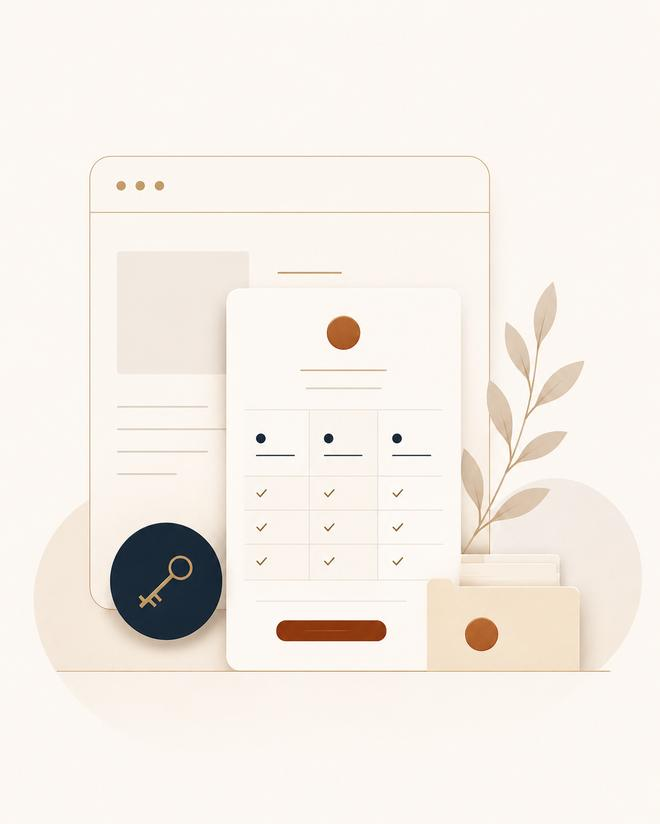
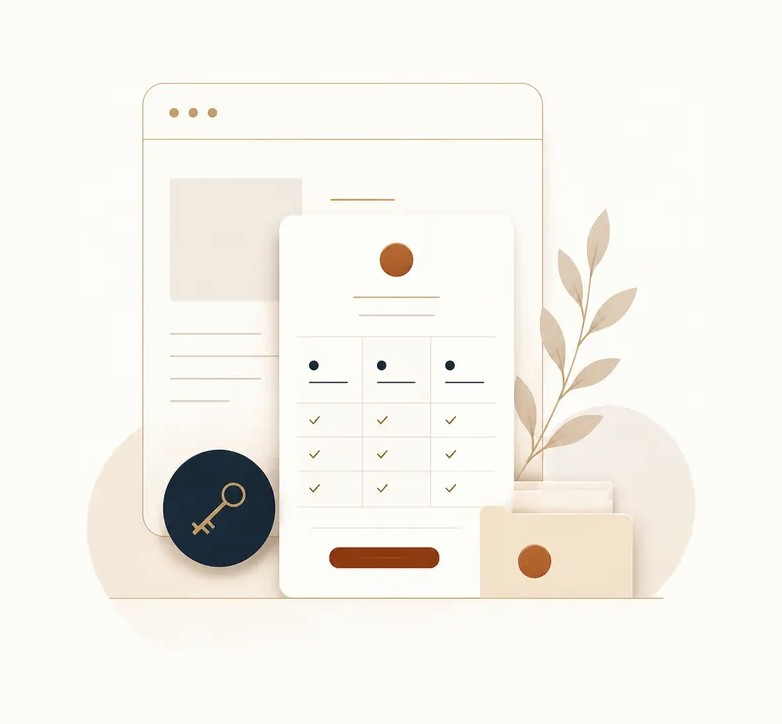
Align the FAQ illustrations and dissolve their edges into the page
Both illustrations read as faint boxes floating at inconsistent heights. Three
separate causes, measured rather than guessed.

Alignment: the heading sat inside the left column, so centring the artwork
centred it against heading plus questions together. The two groups have
different heading-to-question ratios, so group one's art floated 54px above its
first question while group two's sat 26px below it. The heading is now a grid
item spanning both columns, which puts the questions and the artwork in a row of
their own. The 34px under the heading moves from a margin to the grid row-gap,
because a margin counts inside the row box and centring was splitting it,
leaving the art 17px high. Both groups now centre exactly, symmetric to the
pixel.

Framing: both images were squeezed into one 660x824 frame despite opposite
natural shapes, subjects at aspect 1.08 and 0.52, so each carried a wide band of
dead background on two sides. Neither subject was actually centred either; the
working illustration sat 40px left of centre. Both are recropped to their own
subject and recentred with a uniform 10% margin. Sizing is now capped by height
instead of set by width, so the tall portrait cannot tower over the short
landscape one: each lands at about 0.72 of the height of the questions beside it.

Seamlessness: the flat illustration backgrounds were five values off --paper,
close enough to look deliberate and too far to hide a rectangle edge. Each
[…]

diff --git a/studio.css b/studio.css
@@ -895,18 +895,70 @@ p,li,dd,figcaption{text-wrap:pretty}
 
 /* FAQ group with its illustration alongside (2026-08-11). The accordion caps
    at 820px, so on a 1240px page there was 400px of dead space to its right.
-   The artwork lives there. Its own background is within about four values of
-   --paper, so it needs no frame to sit on the page cleanly. */
-.faq-split{display:grid;grid-template-columns:minmax(0,1fr) 300px;gap:54px;align-items:center}
+   The artwork lives there.
+
+   Revised 2026-08-12. Two problems were visible on the live page:
+
+   1. The heading sat inside the left column, so align-items:center centred the
+      artwork against heading + questions together. The two groups have
+      different heading-to-question ratios, so group one's art floated 54px
+      ABOVE its first question and group two's sat 26px BELOW it: the same
+      component landing at two different offsets. The heading is now a grid
+      item spanning both columns, which drops the questions and the artwork
+      into a row of their own and centres the art against the questions alone.
+      Both groups now read identically. The 34px below the heading has to move
+      from .faq's margin to the grid's row-gap: a margin counts inside the row
+      box, so centring split the difference and left the art 17px high.
+
+   2. Both illustrations were squeezed into one 660x824 frame despite having
+      opposite natural shapes (subjects at aspect 1.08 and 0.52), so each had
+      a wide band of dead background on two sides, and neither subject was
+      actually centred in its frame; the working illustration sat 40px left.
+      Both are now cropped to their own subject and re-centred with a uniform
+      10% margin, and each is sized to its own aspect rather than a shared box.
+      Sizing is capped by height rather than set by width, so the tall
+      portrait cannot tower over the short landscape one: each ends up about
+      0.72 of the height of the question stack beside it. */
+.faq-split{display:grid;grid-template-columns:minmax(0,1fr) 300px;column-gap:54px;row-gap:34px;align-items:center}
+.faq-split > .sec-head{grid-column:1/-1}
 .faq-split + .faq-split{margin-top:58px}
-@media(max-width:1000px){.faq-split{grid-template-columns:1fr;gap:26px}}
-.faq-split .faq{max-width:none}
+@media(max-width:1000px){.faq-split{grid-template-columns:1fr;column-gap:0}}
+.faq-split .faq{max-width:none;margin-top:0}
 .faq-art{margin:0}
-.faq-art img{display:block;width:100%;height:auto;border-radius:14px}
+.faq-art img{display:block;max-width:100%;max-height:400px;width:auto;height:auto;margin:0 auto}
+/* The illustration backgrounds were flat but landed five values off --paper,
+   which is close enough to look intentional and too far to hide a rectangle
+   edge: on the live page both read as faint boxes. Two things fix it. The
+   images now have their own flat field retinted onto --paper exactly (weighted
+   by how close each pixel already was to that field, so the artwork is
+   untouched), and the outer 9% is dissolved here to kill the edge itself.
+   Measured after both: every edge pixel matches the page exactly.
+
+   NOTE: the retint ties these two files to a --paper band. If either
+   illustration is ever moved onto .alt (cream) or .navy, the flat field will
+   show as a pale box again and the images need rebuilding against that colour.
+
+   Two gradients intersected rather than one radial, so the fade stays on the
+   borders and the middle of the picture keeps full strength. The images carry
+   exactly 10% of clear margin for the 9% fade to eat, so it never reaches the
+   artwork. */
+.faq-art img{
+  --edge:9%;
+  -webkit-mask-image:
+    linear-gradient(to bottom,transparent 0,#000 var(--edge),#000 calc(100% - var(--edge)),transparent 100%),
+    linear-gradient(to right, transparent 0,#000 var(--edge),#000 calc(100% - var(--edge)),transparent 100%);
+  -webkit-mask-composite:source-in;
+  mask-image:
+    linear-gradient(to bottom,transparent 0,#000 var(--edge),#000 calc(100% - var(--edge)),transparent 100%),
+    linear-gradient(to right, transparent 0,#000 var(--edge),#000 calc(100% - var(--edge)),transparent 100%);
+  mask-composite:intersect;
+}
 @media(max-width:1000px){
   /* stacked, the portrait illustration would add ~380px of scrolling to a page
-     that is already long, so it caps and centres instead */
-  .faq-art{max-width:240px;margin:0 auto}
+     that is already long, so it caps and centres instead. The row-gap above
+     supplies the space, so the figure needs no margin of its own. */
+  .faq-art{margin:0 auto}
+  .faq-art img{max-height:300px}
 }
 @media (prefers-reduced-motion: reduce){.faq summary::after{transition:none}}
 

diff --git a/faq.html b/faq.html
@@ -28,7 +28,7 @@
 <link rel="preconnect" href="https://fonts.googleapis.com">
 <link rel="preconnect" href="https://fonts.gstatic.com" crossorigin>
 <link href="https://fonts.googleapis.com/css2?family=Playfair+Display:ital,wght@0,500;0,600;0,700;1,500;1,600&family=Plus+Jakarta+Sans:wght@400;500;600;700&family=Caveat:wght@600&family=IBM+Plex+Mono:wght@500;600&display=swap" rel="stylesheet">
-<link rel="stylesheet" href="studio.css?v=106"/>
+<link rel="stylesheet" href="studio.css?v=108"/>
 <script async src="https://www.googletagmanager.com/gtag/js?id=G-X2Q4TFJQM4"></script>
 <script>
   window.dataLayer=window.dataLayer||[];
@@ -214,7 +214,6 @@
   <section class="block">
     <div class="wrap">
       <div class="faq-split">
-        <div>
         <div class="sec-head">
           <span class="eyebrow">Pricing</span>
           <h2>Cost, plans, and what you own.</h2>
@@ -252,17 +251,15 @@
             </div>
           </details>
         </div>
-        </div>
         <figure class="faq-art">
           <picture>
-            <source srcset="img/faq-pricing.webp?v=1" type="image/webp"/>
-            <img src="img/faq-pricing.jpg?v=1" alt="A website plan, a checklist of what is included, and a key, drawn in the studio's colours" width="660" height="824" loading="lazy" decoding="async"/>
+            <source srcset="img/faq-pricing.webp?v=3" type="image/webp"/>
+            <img src="img/faq-pricing.jpg?v=3" alt="A website plan, a checklist of what is included, and a key, drawn in the studio's colours" width="782" height="724" loading="lazy" decoding="async"/>
           </picture>
         </figure>
       </div>
 
       <div class="faq-split">
-        <div>
         <div class="sec-head">
           <span class="eyebrow">Working together</span>
           <h2>Timelines, fit, and parting ways.</h2>
@@ -318,11 +315,10 @@
             </div>
           </details>
         </div>
-        </div>
         <figure class="faq-art">
           <picture>
-            <source srcset="img/faq-working.webp?v=1" type="image/webp"/>
-            <img src="img/faq-working.jpg?v=1" alt="A calendar, a clock, a conversation, a puzzle fitting together, and a handshake, drawn in the studio's colours" width="660" height="824" loading="lazy" decoding="async"/>
+            <source srcset="img/faq-working.webp?v=3" type="image/webp"/>
+            <img src="img/faq-working.jpg?v=3" alt="A calendar, a clock, a conversation, a puzzle fitting together, and a handshake, drawn in the studio's colours" width="490" height="946" loading="lazy" decoding="async"/>
           </picture>
         </figure>
       </div>

diff --git a/404.html b/404.html
@@ -28,7 +28,7 @@
 <link rel="preconnect" href="https://fonts.googleapis.com">
 <link rel="preconnect" href="https://fonts.gstatic.com" crossorigin>
 <link href="https://fonts.googleapis.com/css2?family=Playfair+Display:ital,wght@0,500;0,600;0,700;1,500;1,600&family=Plus+Jakarta+Sans:wght@400;500;600;700&family=Caveat:wght@600&family=IBM+Plex+Mono:wght@500;600&display=swap" rel="stylesheet">
-<link rel="stylesheet" href="/studio.css?v=106"/>
+<link rel="stylesheet" href="/studio.css?v=108"/>
 <script async src="https://www.googletagmanager.com/gtag/js?id=G-X2Q4TFJQM4"></script>
 <script>
   window.dataLayer=window.dataLayer||[];

diff --git a/about.html b/about.html
@@ -28,7 +28,7 @@
 <link rel="preconnect" href="https://fonts.googleapis.com">
 <link rel="preconnect" href="https://fonts.gstatic.com" crossorigin>
 <link href="https://fonts.googleapis.com/css2?family=Playfair+Display:ital,wght@0,500;0,600;0,700;1,500;1,600&family=Plus+Jakarta+Sans:wght@400;500;600;700&family=Caveat:wght@600&family=IBM+Plex+Mono:wght@500;600&display=swap" rel="stylesheet">
-<link rel="stylesheet" href="studio.css?v=106"/>
+<link rel="stylesheet" href="studio.css?v=108"/>
 <script async src="https://www.googletagmanager.com/gtag/js?id=G-X2Q4TFJQM4"></script>
 <script>
   window.dataLayer=window.dataLayer||[];

diff --git a/contact.html b/contact.html
@@ -28,7 +28,7 @@
 <link rel="preconnect" href="https://fonts.googleapis.com">
 <link rel="preconnect" href="https://fonts.gstatic.com" crossorigin>
 <link href="https://fonts.googleapis.com/css2?family=Playfair+Display:ital,wght@0,500;0,600;0,700;1,500;1,600&family=Plus+Jakarta+Sans:wght@400;500;600;700&family=Caveat:wght@600&family=IBM+Plex+Mono:wght@500;600&display=swap" rel="stylesheet">
-<link rel="stylesheet" href="studio.css?v=106"/>
+<link rel="stylesheet" href="studio.css?v=108"/>
 <script async src="https://www.googletagmanager.com/gtag/js?id=G-X2Q4TFJQM4"></script>
 <script>
   window.dataLayer=window.dataLayer||[];

diff --git a/domains.html b/domains.html
@@ -28,7 +28,7 @@
 <link rel="preconnect" href="https://fonts.googleapis.com">
 <link rel="preconnect" href="https://fonts.gstatic.com" crossorigin>
 <link href="https://fonts.googleapis.com/css2?family=Playfair+Display:ital,wght@0,500;0,600;0,700;1,500;1,600&family=Plus+Jakarta+Sans:wght@400;500;600;700&family=Caveat:wght@600&family=IBM+Plex+Mono:wght@500;600&display=swap" rel="stylesheet">
-<link rel="stylesheet" href="studio.css?v=106"/>
+<link rel="stylesheet" href="studio.css?v=108"/>
 <script async src="https://www.googletagmanager.com/gtag/js?id=G-X2Q4TFJQM4"></script>
 <script>
   window.dataLayer=window.dataLayer||[];

diff --git a/essential.html b/essential.html
@@ -28,7 +28,7 @@
 <link rel="preconnect" href="https://fonts.googleapis.com">
 <link rel="preconnect" href="https://fonts.gstatic.com" crossorigin>
 <link href="https://fonts.googleapis.com/css2?family=Playfair+Display:ital,wght@0,500;0,600;0,700;1,500;1,600&family=Plus+Jakarta+Sans:wght@400;500;600;700&family=Caveat:wght@600&family=IBM+Plex+Mono:wght@500;600&display=swap" rel="stylesheet">
-<link rel="stylesheet" href="studio.css?v=106"/>
+<link rel="stylesheet" href="studio.css?v=108"/>
 <script async src="https://www.googletagmanager.com/gtag/js?id=G-X2Q4TFJQM4"></script>
 <script>
   window.dataLayer=window.dataLayer||[];

diff --git a/guarantee.html b/guarantee.html
@@ -28,7 +28,7 @@
 <link rel="preconnect" href="https://fonts.googleapis.com">
 <link rel="preconnect" href="https://fonts.gstatic.com" crossorigin>
 <link href="https://fonts.googleapis.com/css2?family=Playfair+Display:ital,wght@0,500;0,600;0,700;1,500;1,600&family=Plus+Jakarta+Sans:wght@400;500;600;700&family=Caveat:wght@600&family=IBM+Plex+Mono:wght@500;600&display=swap" rel="stylesheet">
-<link rel="stylesheet" href="studio.css?v=106"/>
+<link rel="stylesheet" href="studio.css?v=108"/>
 <script async src="https://www.googletagmanager.com/gtag/js?id=G-X2Q4TFJQM4"></script>
 <script>
   window.dataLayer=window.dataLayer||[];

diff --git a/hosting.html b/hosting.html
@@ -28,7 +28,7 @@
 <link rel="preconnect" href="https://fonts.googleapis.com">
 <link rel="preconnect" href="https://fonts.gstatic.com" crossorigin>
 <link href="https://fonts.googleapis.com/css2?family=Playfair+Display:ital,wght@0,500;0,600;0,700;1,500;1,600&family=Plus+Jakarta+Sans:wght@400;500;600;700&family=Caveat:wght@600&family=IBM+Plex+Mono:wght@500;600&display=swap" rel="stylesheet">
-<link rel="stylesheet" href="studio.css?v=106"/>
+<link rel="stylesheet" href="studio.css?v=108"/>
 <script async src="https://www.googletagmanager.com/gtag/js?id=G-X2Q4TFJQM4"></script>
 <script>
   window.dataLayer=window.dataLayer||[];

diff --git a/local.html b/local.html
@@ -28,7 +28,7 @@
 <link rel="preconnect" href="https://fonts.googleapis.com">
 <link rel="preconnect" href="https://fonts.gstatic.com" crossorigin>
 <link href="https://fonts.googleapis.com/css2?family=Playfair+Display:ital,wght@0,500;0,600;0,700;1,500;1,600&family=Plus+Jakarta+Sans:wght@400;500;600;700&family=Caveat:wght@600&family=IBM+Plex+Mono:wght@500;600&display=swap" rel="stylesheet">
-<link rel="stylesheet" href="studio.css?v=106"/>
+<link rel="stylesheet" href="studio.css?v=108"/>
 <script async src="https://www.googletagmanager.com/gtag/js?id=G-X2Q4TFJQM4"></script>
 <script>
   window.dataLayer=window.dataLayer||[];

diff --git a/plans.html b/plans.html
@@ -28,7 +28,7 @@
 <link rel="preconnect" href="https://fonts.googleapis.com">
 <link rel="preconnect" href="https://fonts.gstatic.com" crossorigin>
 <link href="https://fonts.googleapis.com/css2?family=Playfair+Display:ital,wght@0,500;0,600;0,700;1,500;1,600&family=Plus+Jakarta+Sans:wght@400;500;600;700&family=Caveat:wght@600&family=IBM+Plex+Mono:wght@500;600&display=swap" rel="stylesheet">
-<link rel="stylesheet" href="studio.css?v=106"/>
+<link rel="stylesheet" href="studio.css?v=108"/>
 <script async src="https://www.googletagmanager.com/gtag/js?id=G-X2Q4TFJQM4"></script>
 <script>
   window.dataLayer=window.dataLayer||[];

diff --git a/premium.html b/premium.html
@@ -28,7 +28,7 @@
 <link rel="preconnect" href="https://fonts.googleapis.com">
 <link rel="preconnect" href="https://fonts.gstatic.com" crossorigin>
 <link href="https://fonts.googleapis.com/css2?family=Playfair+Display:ital,wght@0,500;0,600;0,700;1,500;1,600&family=Plus+Jakarta+Sans:wght@400;500;600;700&family=Caveat:wght@600&family=IBM+Plex+Mono:wght@500;600&display=swap" rel="stylesheet">
-<link rel="stylesheet" href="studio.css?v=106"/>
+<link rel="stylesheet" href="studio.css?v=108"/>
 <script async src="https://www.googletagmanager.com/gtag/js?id=G-X2Q4TFJQM4"></script>
 <script>
   window.dataLayer=window.dataLayer||[];
